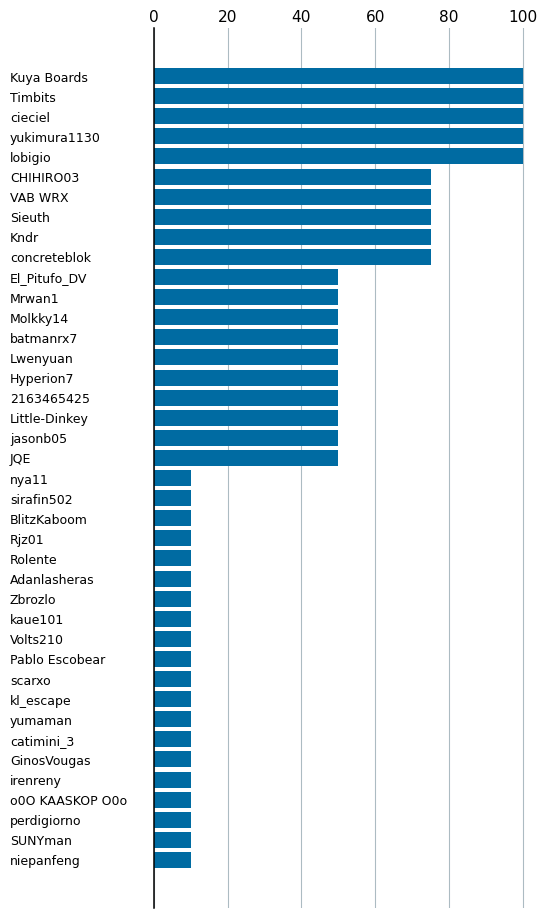
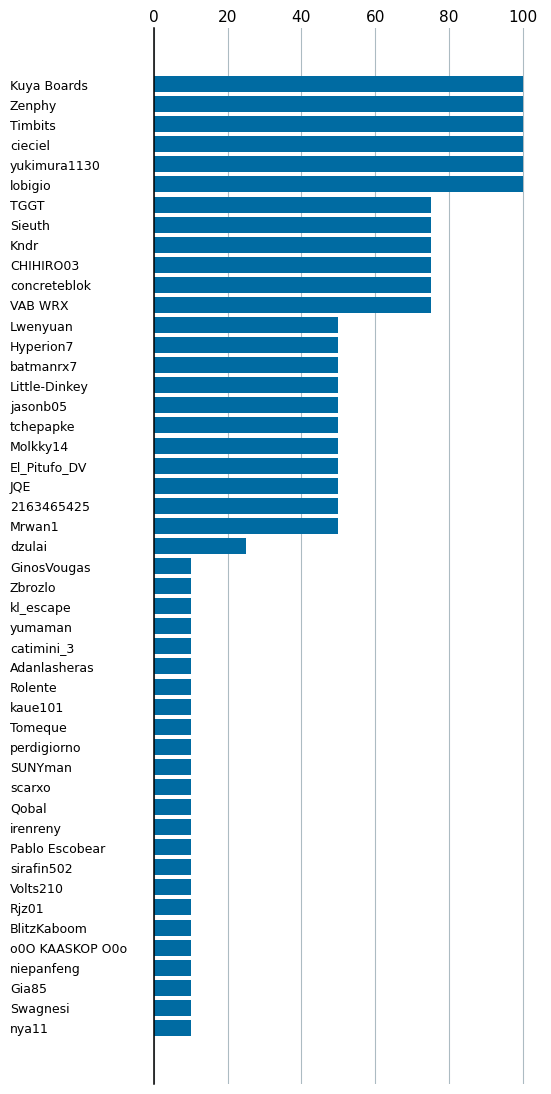
1

diff --git a/_page/7W.md b/_page/7W.md
@@ -1,0 +1,44 @@
+---
+layout: default
+---
+
+## 7 Wonders
+
+### Region standings
+Region ranking: 🥇Belgium(150) 🥈Hungary(75) 🥉Philippines(25)
+
+
+### Player standings
+<div>
+	<img src="/wpoc/assets/images/7WondersRanking.png" style="display: block; margin-left: -10px; margin-bottom: 10px; margin-top: -10px"/>
+</div>
+
+---
+
+### Tournament details
+
+
+- [Season 1](https://boardgamearena.com/tournament?id=293251)
+- Date: 06/03/2024 - 07/22/2024
+- Number of players: 63
+- Top origins of players: USA 11% France 11% Poland 9% Taiwan 7% 
+- Abandoned tables (reached duration limit): 5%
+- Cancelled tables (player left or got kicked): 1%
+- Q1/Q2/Q3 of player's Elo rating: 160/224/320
+- Q1/Q2/Q3 of table duration (days): 1.4/2.3/3.3
+- Winners(meta event points): Zenphy(100); TGGT(75); tchepapke(50); dzulai(25); Gia85(10); Swagnesi(10); Qobal(10); Tomeque(10)
+
+<div>
+ <img src="/wpoc/assets/images/tournament/t_7 Wonders_Elo_20240722103928.png" width="250" style="display: block; margin-left: 30px; margin-bottom: 5px; margin-top:-15px"/>
+</div>
+<div>
+ <img src="/wpoc/assets/images/tournament/t_7 Wonders_Duration_20240722110355.png" width="250" style="display: block; margin-left: 30px; margin-bottom: 5px;"/>
+</div>
+
+
+
+
+
+
+>>
+
